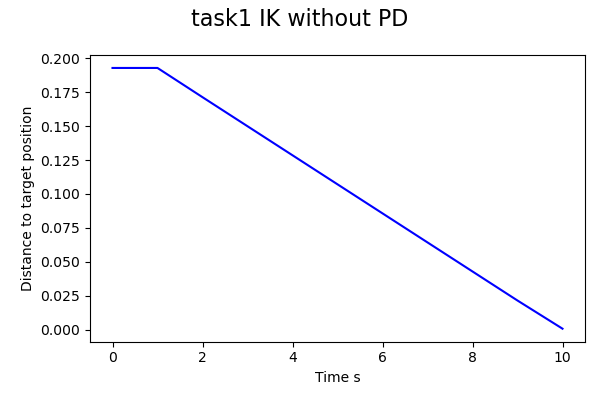
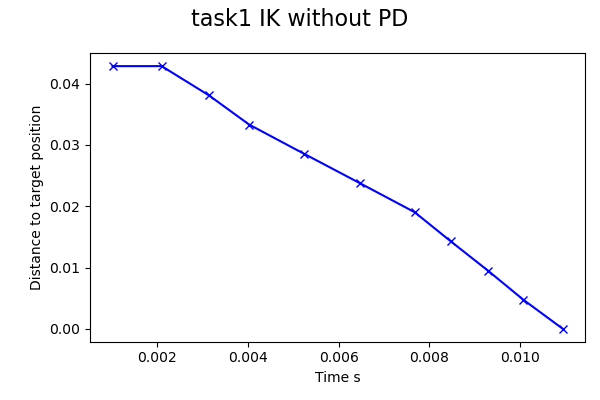
adding real time to graph

diff --git a/task1/task1.py b/task1/task1.py
@@ -2,6 +2,7 @@
 # This file is only for helping you while development
 
 import subprocess, math, time, sys, os, numpy as np
+from matplotlib import markers
 import matplotlib.pyplot as plt
 import pybullet as bullet_simulation
 import pybullet_data
@@ -61,8 +62,11 @@ sim = Simulation(pybulletConfigs, robotConfigs, refVect=ref)
 # position assumes your world frame is located at the base. If your world
 # frame is located at the waist, you will need to transform this vector using
 # the base_to_waist translation.
+# endEffector = "LARM_JOINT5"
+# targetPosition = np.array([0.37, 0.23, 1.06385])  # x,y,z coordinates in world frame
 endEffector = "LARM_JOINT5"
 targetPosition = np.array([0.37, 0.23, 1.06385])  # x,y,z coordinates in world frame
+
 
 # #test code
 # tmats = sim.getTransformationMatrices()
@@ -81,7 +85,7 @@ task1_savefig = True
 
 fig = plt.figure(figsize=(6, 4))
 
-plt.plot(pltTime, pltEFPosition, color='blue')
+plt.plot(pltTime, pltEFPosition, color='blue',marker="x")
 plt.xlabel("Time s")
 plt.ylabel("Distance to target position")
 

diff --git a/core/Pybullet_Simulation.py b/core/Pybullet_Simulation.py
@@ -474,17 +474,19 @@ class Simulation(Simulation_base):
         """
         # TODO add your code here
         # iterate through joints and update joint states based on IK solver
+
+        #temp hotfix
         targetPosition[2] -= 0.85
         trajectory = self.inverseKinematics(endEffector, targetPosition, orientation, 10, maxIter, threshold)
-        pltDistance = np.array([])
-        pltTime = np.arange(11)
+        pltDistance = []
+        pltTime = []
+        initTime = time.time()
         for i in trajectory:
-            pltDistance = np.append(pltDistance, np.array(
-                [np.linalg.norm(self.efForwardKinematics(endEffector, i)[0] - targetPosition)]), axis=0)
+            pltDistance.append(np.linalg.norm(self.efForwardKinematics(endEffector, i)[0] - targetPosition))
+            pltTime.append(time.time()-initTime)
 
-
-
-
+        pltDistance = np.array(pltDistance)
+        pltTime = np.array(pltTime)
 
         return pltTime, pltDistance
         pass
